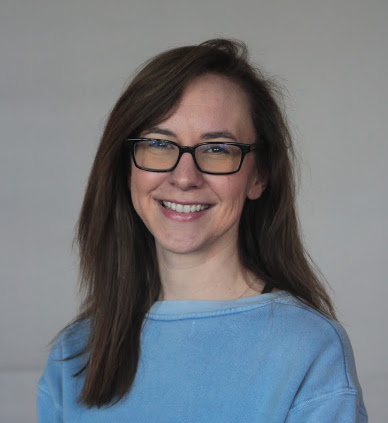
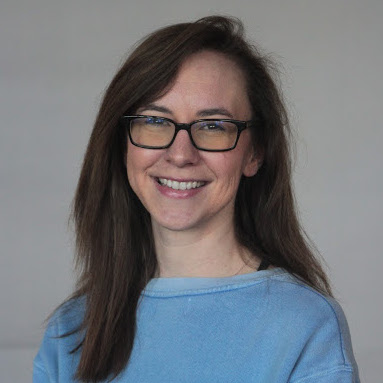
styling

diff --git a/src/components/Point.js b/src/components/Point.js
@@ -9,16 +9,24 @@ const Body = styled.div`
 const Thumbnail = styled.img`
   padding: 10px;
   margin: 10px;
-  width: 40%;
+  width: 100%;
 `
 
 const About = () => {
   return (
-    <Body>
-      <h2>About</h2>
-      <Thumbnail className="img-thumbnail rounded float-left" src="humanPuppy.jpg" alt="dog" />
-      <p>In our increasingly overly stimulating and connected world many people find relaxation in the company of a dog but due to the restrictions on housing and work hours many individuals find themselves unable to own a dog of their own.</p>
-      <p>Pupster helps aliviate that connecting dogs and humans by allowing both parties to like one another prior to disclosing personal information. This also help prevent the akward first meeting phase by allowing each individual to know who they are looking for at that meeting.</p>
+    <Body className="container">
+      <div className="row">
+        <h2>About</h2>
+      </div>
+      <div className="row">
+        <div className="col-sm-12 col-md-4">
+          <Thumbnail className="img-thumbnail rounded float-left" src="humanPuppy.jpg" alt="dog" />
+        </div>
+        <div className="col-sm-12 col-md-8">
+          <p>In our increasingly overly stimulating and connected world many people find relaxation in the company of a dog but due to the restrictions on housing and work hours many individuals find themselves unable to own a dog of their own.</p>
+          <p>Pupster helps alleviate that connecting dogs and humans by allowing both parties to like one another prior to disclosing personal information. This also help prevent the awkward first meeting phase by allowing each individual to know who they are looking for at that meeting.</p>
+      </div>
+      </div>
     </Body>
   )
 }

diff --git a/src/components/WhoAreWe.js b/src/components/WhoAreWe.js
@@ -2,15 +2,15 @@ import React from "react";
 import styled from "styled-components";
 
 const Body = styled.div`
-  padding: 100px;
-  margin: 20%;
+  padding: 5%;
   clear:both;
+  background: lightgrey;
 `
 
 const Faces = styled.img`
   padding: 10px;
   margin: 10px;
-  width: 50%;
+  width: 90%;
   border-radius: 50%;
 `
 
@@ -18,15 +18,15 @@ const About = () => {
   return (
     <Body>
       <h2 className="text-center">Who Are We?</h2>
-      <div class="container">
-      <div class="row align-items-center">
-        <div class="col-sm">
+      <div className="container">
+      <div className="row align-items-center">
+        <div className="col-sm">
           <Faces src="grace.JPG" alt="dog" />
         </div>
-        <div class="col-sm">
+        <div className="col-sm">
           <Faces src="piper.jpg" alt="dog" />
         </div>
-        <div class="col-sm">
+        <div className="col-sm">
           <Faces src="lindsay.png" alt="dog" />
         </div>
       </div>

diff --git a/src/components/About.js b/src/components/About.js
@@ -1,11 +1,20 @@
 import React from "react";
 import Point from "./Point";
 import Who from "./WhoAreWe"
+import styled from "styled-components";
+
+const Break = styled.div`
+  height: 5%;
+  clear: both;
+`
 
 const About = () => {
   return (
     <>
       <Point />
+      <Break>
+        <br />
+      </Break>
       <Who />
     </>
   )
